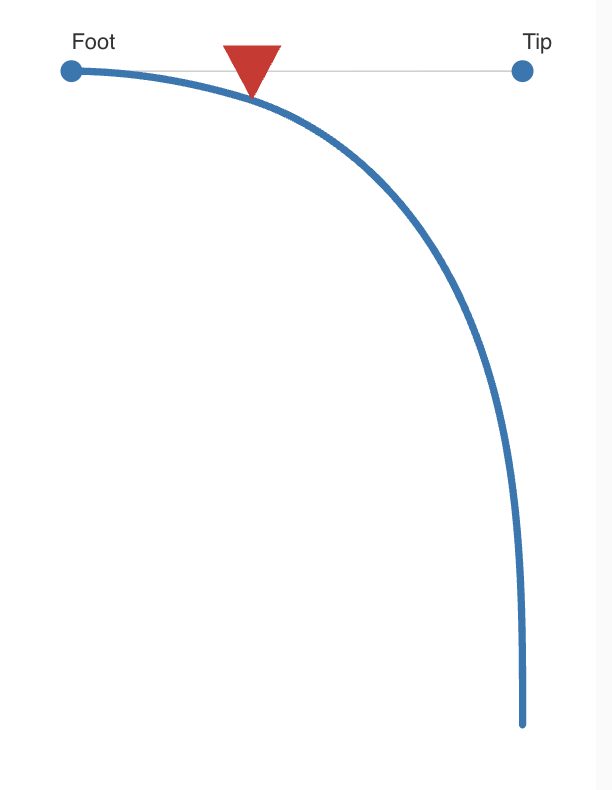
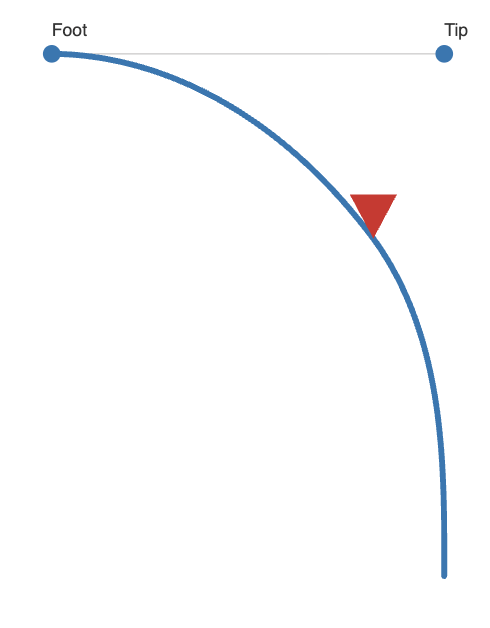
feat: tweak the calculations

Changed region(s): [[0.0918, 0.0303, 0.949, 0.9379]]

diff --git a/docs/projects/short-fins/v1/power-fins.md b/docs/projects/short-fins/v1/power-fins.md
@@ -77,13 +77,13 @@ Start with the [Flex predictor modelling](../../../techniques/predicting-flex/v1
 
 Predicted:
 
-- Load required for 90° = 35.3 N (3.60 kg)
-- Hydrodynamic resistance score  5N = 2.71 units
-- Hydrodynamic resistance score 10N = 2.38 units
+- Load required for 90° = 42.4 N (4.32 kg)
+- Hydrodynamic resistance score  5N = 2.77 units
+- Hydrodynamic resistance score 10N = 2.51 units
 
 The predicted code for this fin would be (see [hydrodynamic resistance codes](../../../techniques/encoding-fin-properties/v1/hydrodynamic-resistance-codes.md)): 
 ```
-C250-T35-R27-F03
+C250-T42-R27-F03
 ```
 
 ## Reference images
@@ -121,10 +121,10 @@ C250-T35-R27-F03
 
 I've recorded the flex using the [Kitchen Scale Test](../../../techniques/measuring-flex/v2/kitchen-scale-test.md).
 
-|                     | Desired  | Actual | Notes                                                                                          |
-|---------------------|----------|--------|------------------------------------------------------------------------------------------------|
-| Free blade size     | 250mm    | 230mm  | The footpocket side turned out bigger                                                          |
-| Load for 90 degrees | 3.6kg    | 5.0kg  | Shorter blade is much stiffer                                                                  |
+|                     | Desired | Predicted | Actual | Notes                                                                                          |
+|---------------------|---------|-----------|--------|------------------------------------------------------------------------------------------------|
+| Free blade size     | 250mm   | 230mm     | 230mm  | The footpocket side turned out bigger                                                          |
+| Load for 90 degrees | 4.2kg   | 5.3kg     | 5.0kg  | Shorter blade is much stiffer                                                                  |
 
 ### Water trial
 

diff --git a/docs/projects/medium-fins/v1/training-fins.md b/docs/projects/medium-fins/v1/training-fins.md
@@ -51,10 +51,9 @@ Target outline for each blade:
 #### Layer schedule (one blade)
 - Reserve 17 cm from the heel line for the bend zone.
 - Layer 1: 20 cm × 60 cm
-- Layer 2: 20 cm × 50 cm
-- Layer 2: 20 cm × 40 cm
-- Layer 2: 20 cm × 30 cm
-- Layer 5: 20 cm × 60 cm top ply
+- Layer 2: 20 cm × 25 cm
+- Layer 3: 20 cm × 45 cm
+- Layer 4: 20 cm × 60 cm top ply
 
 
 | TODO                   | TODO |
